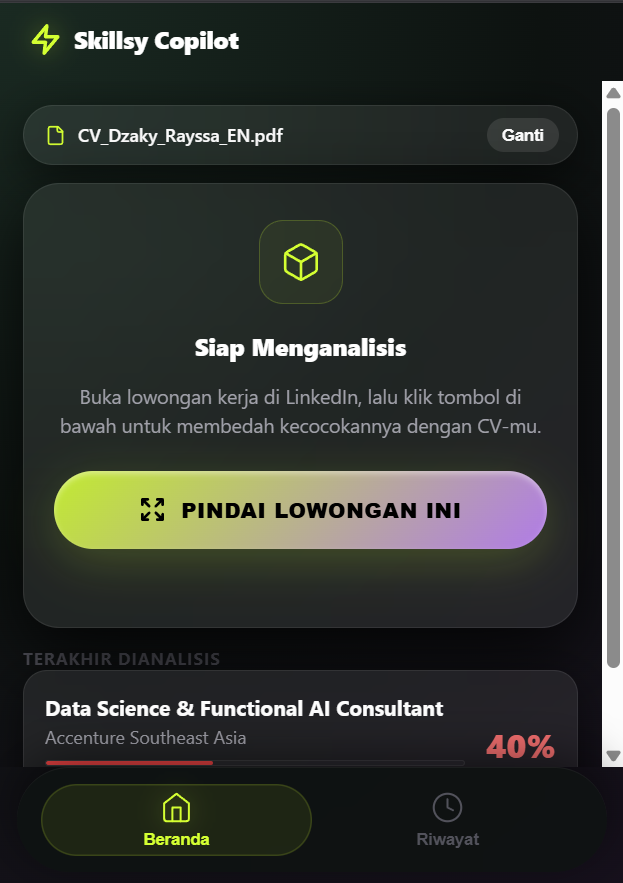
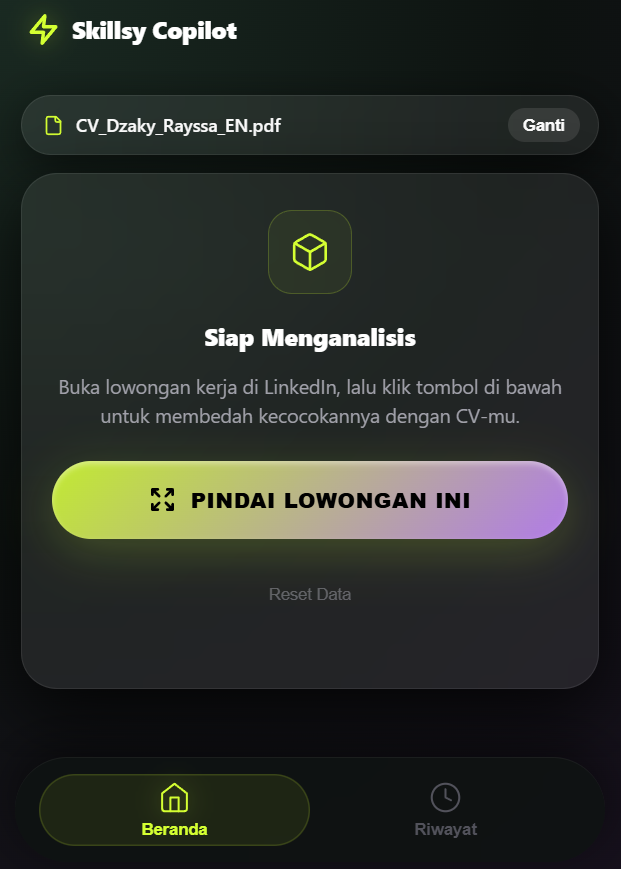
fix: update extension API to production URL and save clean screenshots

diff --git a/extension/popup.js b/extension/popup.js
@@ -4,7 +4,7 @@ let cvName = '';
 let activeResultData = null; // current result shown in view-result
 let activeJobData = null;    // job info (title, description) for cover letter
 
-const API_URL = 'http://localhost:8000';
+const API_URL = 'https://skillsy.my.id';
 
 /* ── HELPERS ────────────────────────────────────────────────────────────── */
 function showView(id) {
